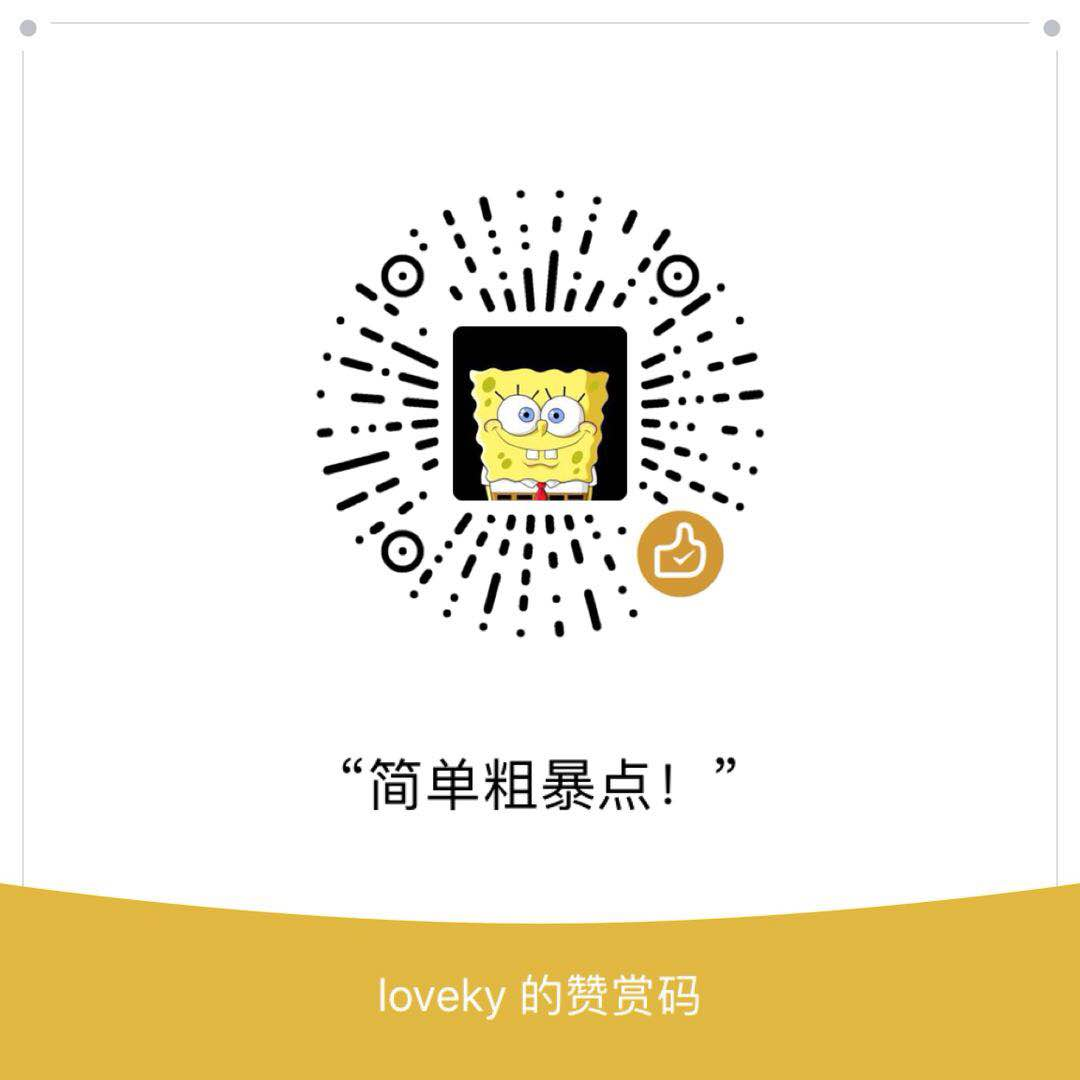
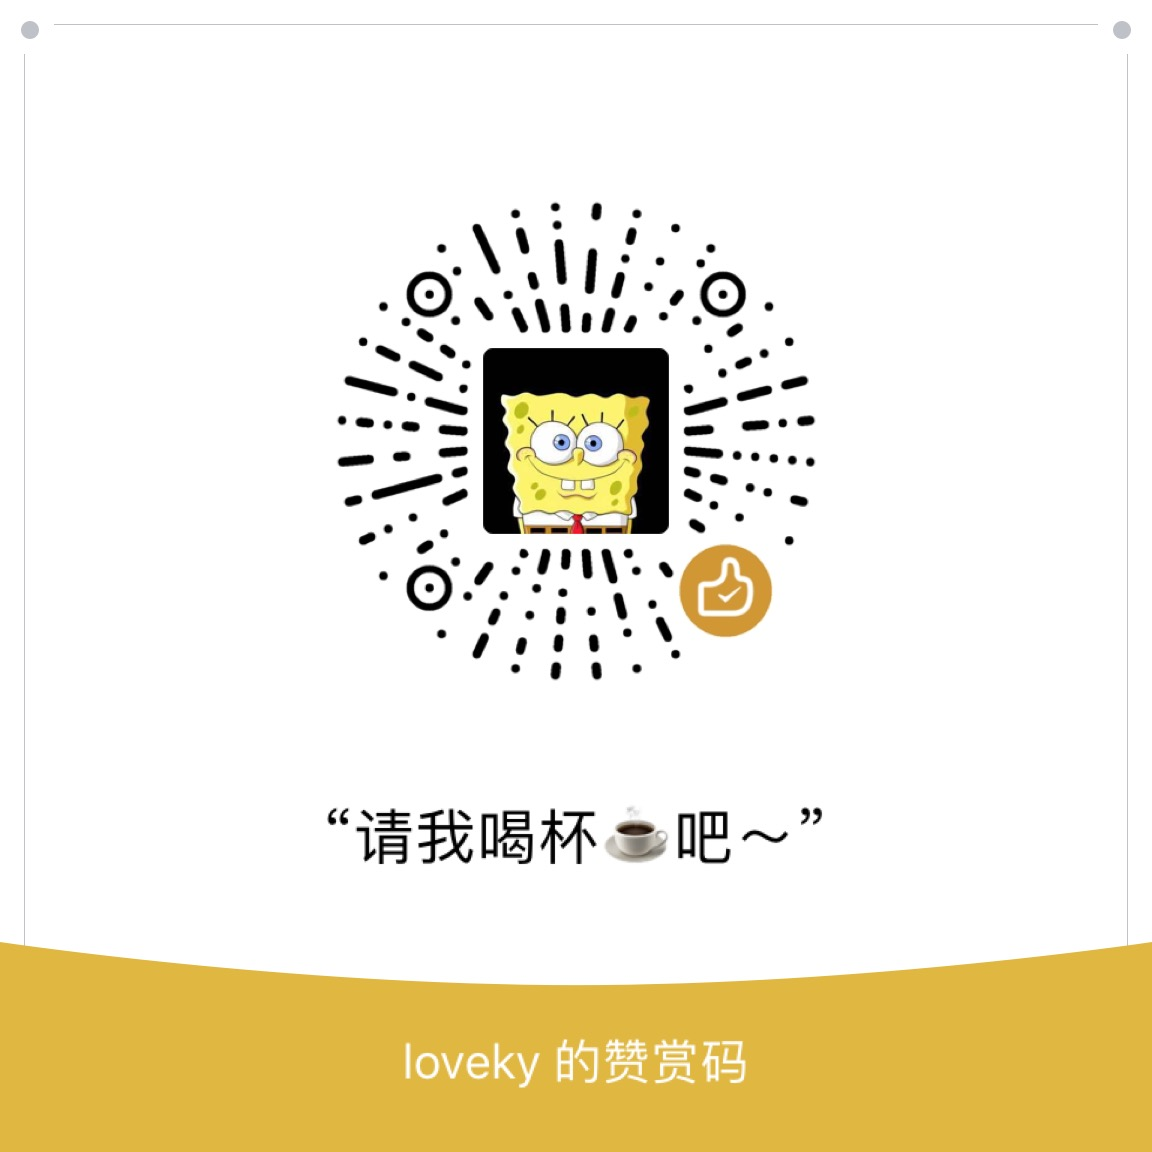
reward

diff --git a/2013/06/15/try-sidekiq/index.html b/2013/06/15/try-sidekiq/index.html
@@ -328,9 +328,13 @@ it <span style="color:#e6db74">&#34;send with the right content&#34;</span> <spa
       </ul>
       
       <p class="post-copyright">
-        This post was published <strong>1714</strong> days ago, content in the post may be inaccurate, even wrong now, please take risk yourself.
+        本文发表于 <strong>1714</strong> 天前，文章内容可能已经不准确，甚至是错误的。请谨慎参考。
       </p>
     </footer>
+    <div style="text-align:center">
+      <p>如果你觉得这篇文章对你有所帮助，可以微信扫码请作者喝杯咖啡哦~</p>
+      <img width="250" height="250" src="https://loveky.github.io/img/wechat-reward-new.jpg"/>
+  </div>
     
       <div id="disqus_thread"></div>
 <script>

diff --git a/2014/04/02/angularjs-ngrepeat/index.html b/2014/04/02/angularjs-ngrepeat/index.html
@@ -497,9 +497,13 @@ var expression = $attr.ngRepeat; var match = expression.match(/^\s*([\s\S]&#43;?
       </ul>
       
       <p class="post-copyright">
-        This post was published <strong>1424</strong> days ago, content in the post may be inaccurate, even wrong now, please take risk yourself.
+        本文发表于 <strong>1424</strong> 天前，文章内容可能已经不准确，甚至是错误的。请谨慎参考。
       </p>
     </footer>
+    <div style="text-align:center">
+      <p>如果你觉得这篇文章对你有所帮助，可以微信扫码请作者喝杯咖啡哦~</p>
+      <img width="250" height="250" src="https://loveky.github.io/img/wechat-reward-new.jpg"/>
+  </div>
     
       <div id="disqus_thread"></div>
 <script>

diff --git a/2016/12/01/redux-source-src-createstore/index.html b/2016/12/01/redux-source-src-createstore/index.html
@@ -521,9 +521,13 @@ import isPlainObject from &amp;#39;lodash/isPlainObject&amp;#39; import $$observ
       </ul>
       
       <p class="post-copyright">
-        This post was published <strong>450</strong> days ago, content in the post may be inaccurate, even wrong now, please take risk yourself.
+        本文发表于 <strong>450</strong> 天前，文章内容可能已经不准确，甚至是错误的。请谨慎参考。
       </p>
     </footer>
+    <div style="text-align:center">
+      <p>如果你觉得这篇文章对你有所帮助，可以微信扫码请作者喝杯咖啡哦~</p>
+      <img width="250" height="250" src="https://loveky.github.io/img/wechat-reward-new.jpg"/>
+  </div>
     
       <div id="disqus_thread"></div>
 <script>

diff --git a/2017/03/29/webpack-module-ids/index.html b/2017/03/29/webpack-module-ids/index.html
@@ -356,9 +356,13 @@ const path = require(&amp;#39;path&amp;#39;); const webpack = require(&amp;#39;w
       </ul>
       
       <p class="post-copyright">
-        This post was published <strong>331</strong> days ago, content in the post may be inaccurate, even wrong now, please take risk yourself.
+        本文发表于 <strong>331</strong> 天前，文章内容可能已经不准确，甚至是错误的。请谨慎参考。
       </p>
     </footer>
+    <div style="text-align:center">
+      <p>如果你觉得这篇文章对你有所帮助，可以微信扫码请作者喝杯咖啡哦~</p>
+      <img width="250" height="250" src="https://loveky.github.io/img/wechat-reward-new.jpg"/>
+  </div>
     
       <div id="disqus_thread"></div>
 <script>

diff --git a/2017/04/09/translate-6-reasons-why-javascripts-async-await-blows-promises-away/index.html b/2017/04/09/translate-6-reasons-why-javascripts-async-await-blows-promises-away/index.html
@@ -494,9 +494,13 @@ const makeRequest = async () =&amp;gt; { console.log(await getJSON()) return &am
       </ul>
       
       <p class="post-copyright">
-        This post was published <strong>321</strong> days ago, content in the post may be inaccurate, even wrong now, please take risk yourself.
+        本文发表于 <strong>321</strong> 天前，文章内容可能已经不准确，甚至是错误的。请谨慎参考。
       </p>
     </footer>
+    <div style="text-align:center">
+      <p>如果你觉得这篇文章对你有所帮助，可以微信扫码请作者喝杯咖啡哦~</p>
+      <img width="250" height="250" src="https://loveky.github.io/img/wechat-reward-new.jpg"/>
+  </div>
     
       <div id="disqus_thread"></div>
 <script>

diff --git a/2017/06/05/translate-node-stream-everything-you-need-to-know/index.html b/2017/06/05/translate-node-stream-everything-you-need-to-know/index.html
@@ -761,9 +761,13 @@ grep.pipe<span style="color:#f92672">(</span>wc<span style="color:#f92672">)</sp
       </ul>
       
       <p class="post-copyright">
-        This post was published <strong>263</strong> days ago, content in the post may be inaccurate, even wrong now, please take risk yourself.
+        本文发表于 <strong>263</strong> 天前，文章内容可能已经不准确，甚至是错误的。请谨慎参考。
       </p>
     </footer>
+    <div style="text-align:center">
+      <p>如果你觉得这篇文章对你有所帮助，可以微信扫码请作者喝杯咖啡哦~</p>
+      <img width="250" height="250" src="https://loveky.github.io/img/wechat-reward-new.jpg"/>
+  </div>
     
       <div id="disqus_thread"></div>
 <script>

diff --git a/2017/07/24/service-worker-101/index.html b/2017/07/24/service-worker-101/index.html
@@ -372,9 +372,13 @@ navigator.serviceWorker.register(&amp;#39;sw.js&amp;#39;, { scope: &amp;#39;./ab
       </ul>
       
       <p class="post-copyright">
-        This post was published <strong>214</strong> days ago, content in the post may be inaccurate, even wrong now, please take risk yourself.
+        本文发表于 <strong>214</strong> 天前，文章内容可能已经不准确，甚至是错误的。请谨慎参考。
       </p>
     </footer>
+    <div style="text-align:center">
+      <p>如果你觉得这篇文章对你有所帮助，可以微信扫码请作者喝杯咖啡哦~</p>
+      <img width="250" height="250" src="https://loveky.github.io/img/wechat-reward-new.jpg"/>
+  </div>
     
       <div id="disqus_thread"></div>
 <script>

diff --git a/2015/12/19/use-es6-in-jdf-projects/index.html b/2015/12/19/use-es6-in-jdf-projects/index.html
@@ -322,9 +322,13 @@ npm install babel-plugin-transform-es3-property-literals</code></pre></div>
       </ul>
       
       <p class="post-copyright">
-        This post was published <strong>798</strong> days ago, content in the post may be inaccurate, even wrong now, please take risk yourself.
+        本文发表于 <strong>798</strong> 天前，文章内容可能已经不准确，甚至是错误的。请谨慎参考。
       </p>
     </footer>
+    <div style="text-align:center">
+      <p>如果你觉得这篇文章对你有所帮助，可以微信扫码请作者喝杯咖啡哦~</p>
+      <img width="250" height="250" src="https://loveky.github.io/img/wechat-reward-new.jpg"/>
+  </div>
     
       <div id="disqus_thread"></div>
 <script>
